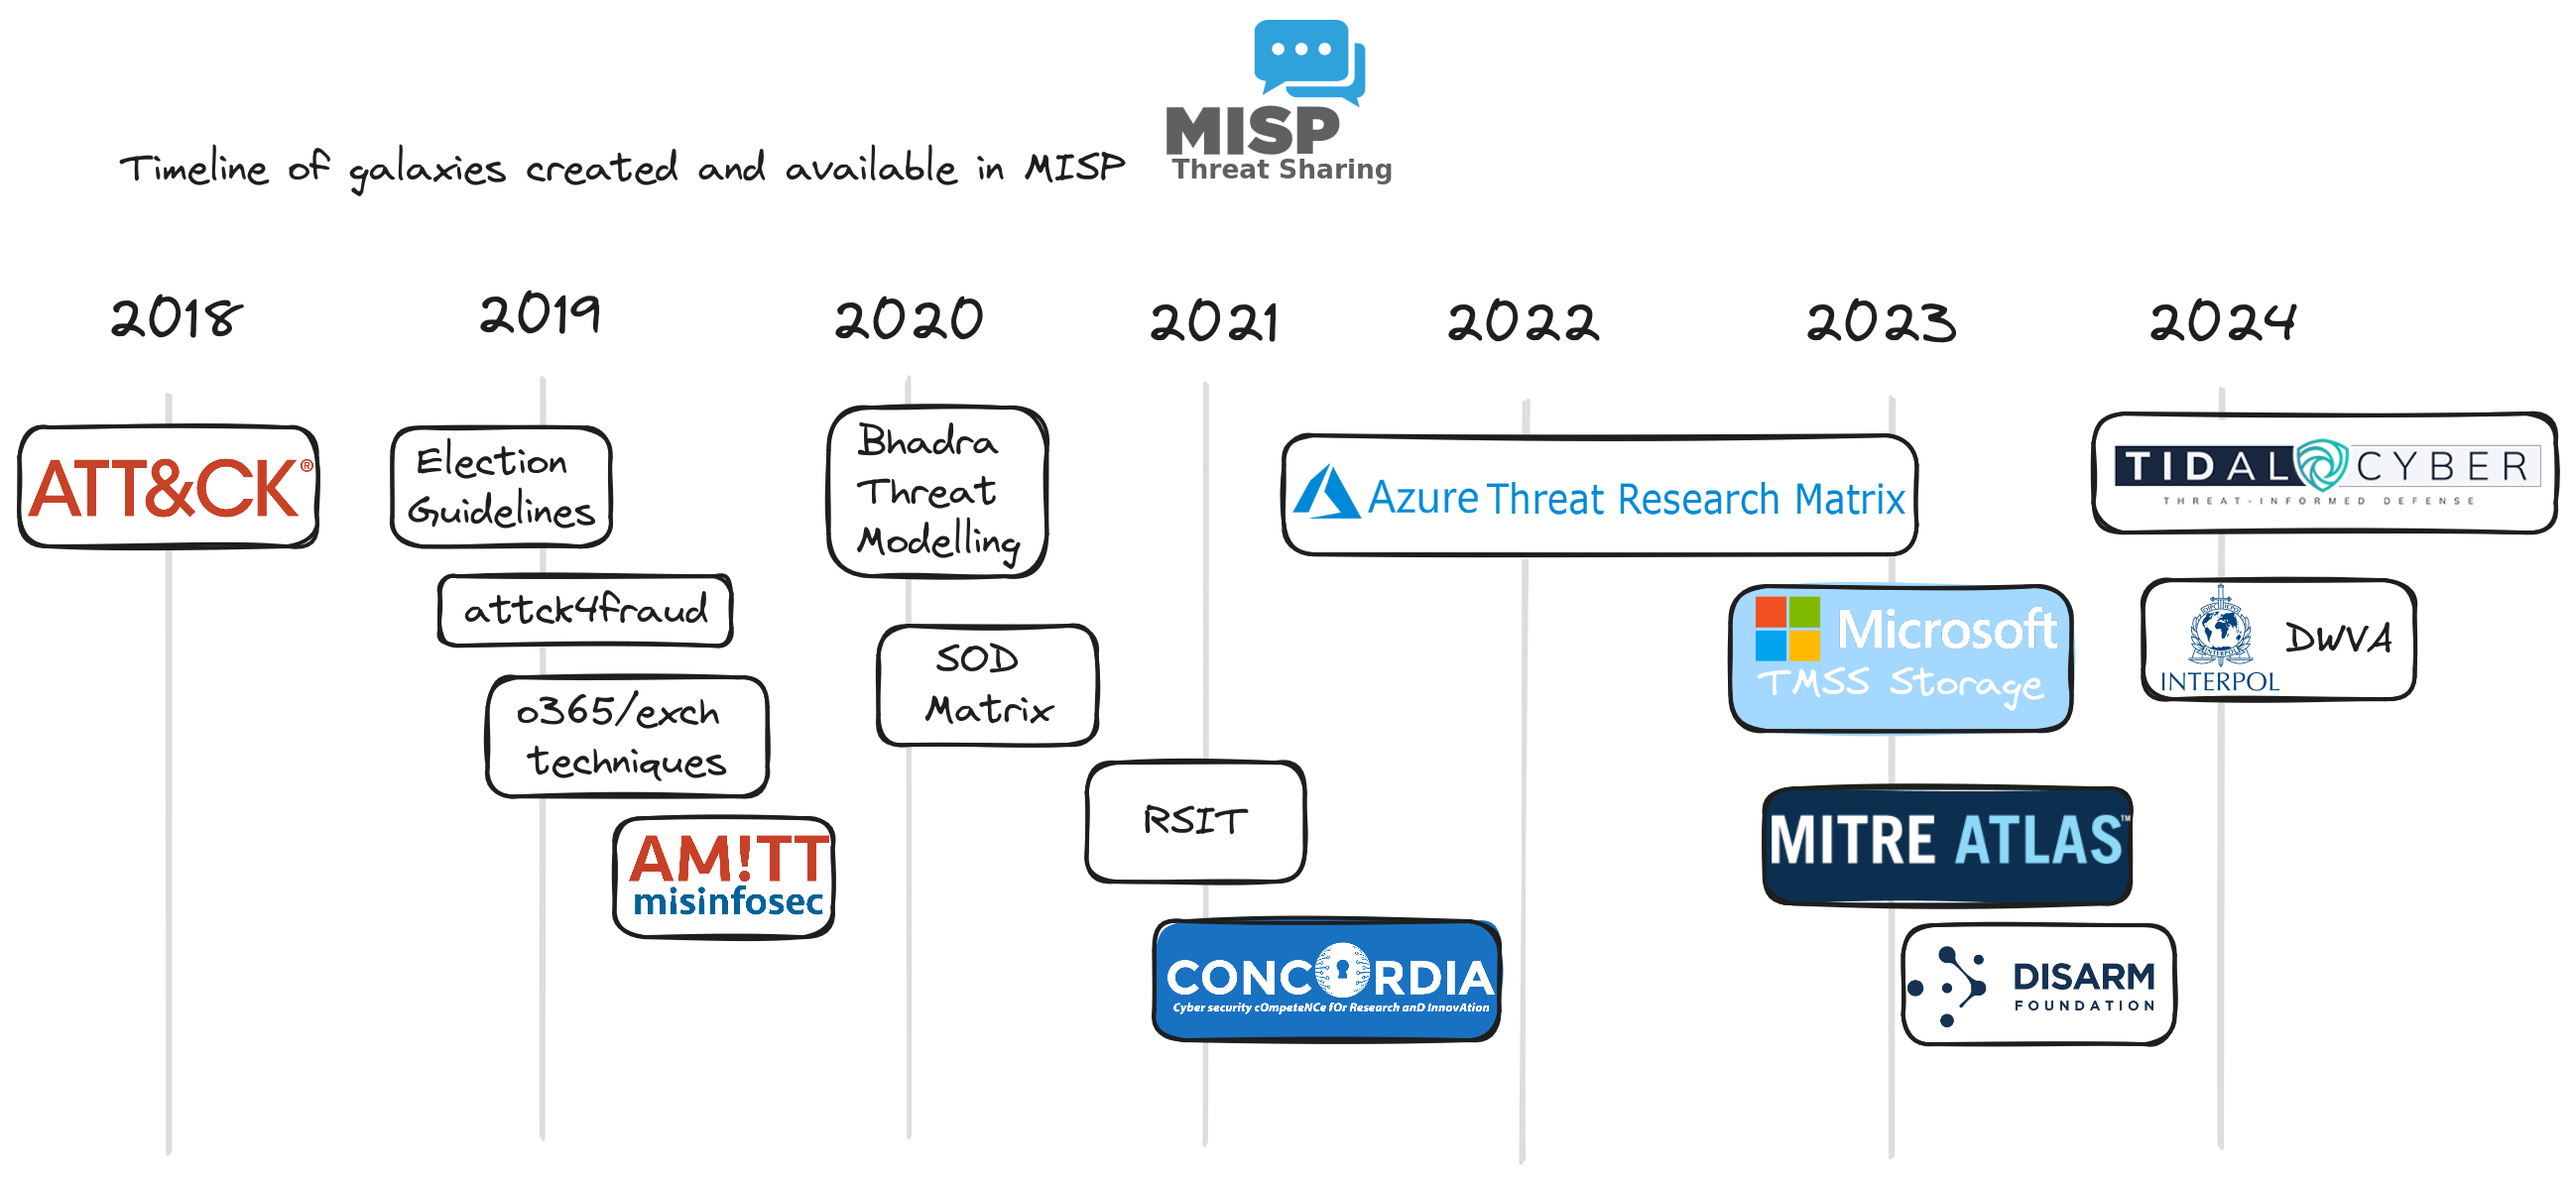
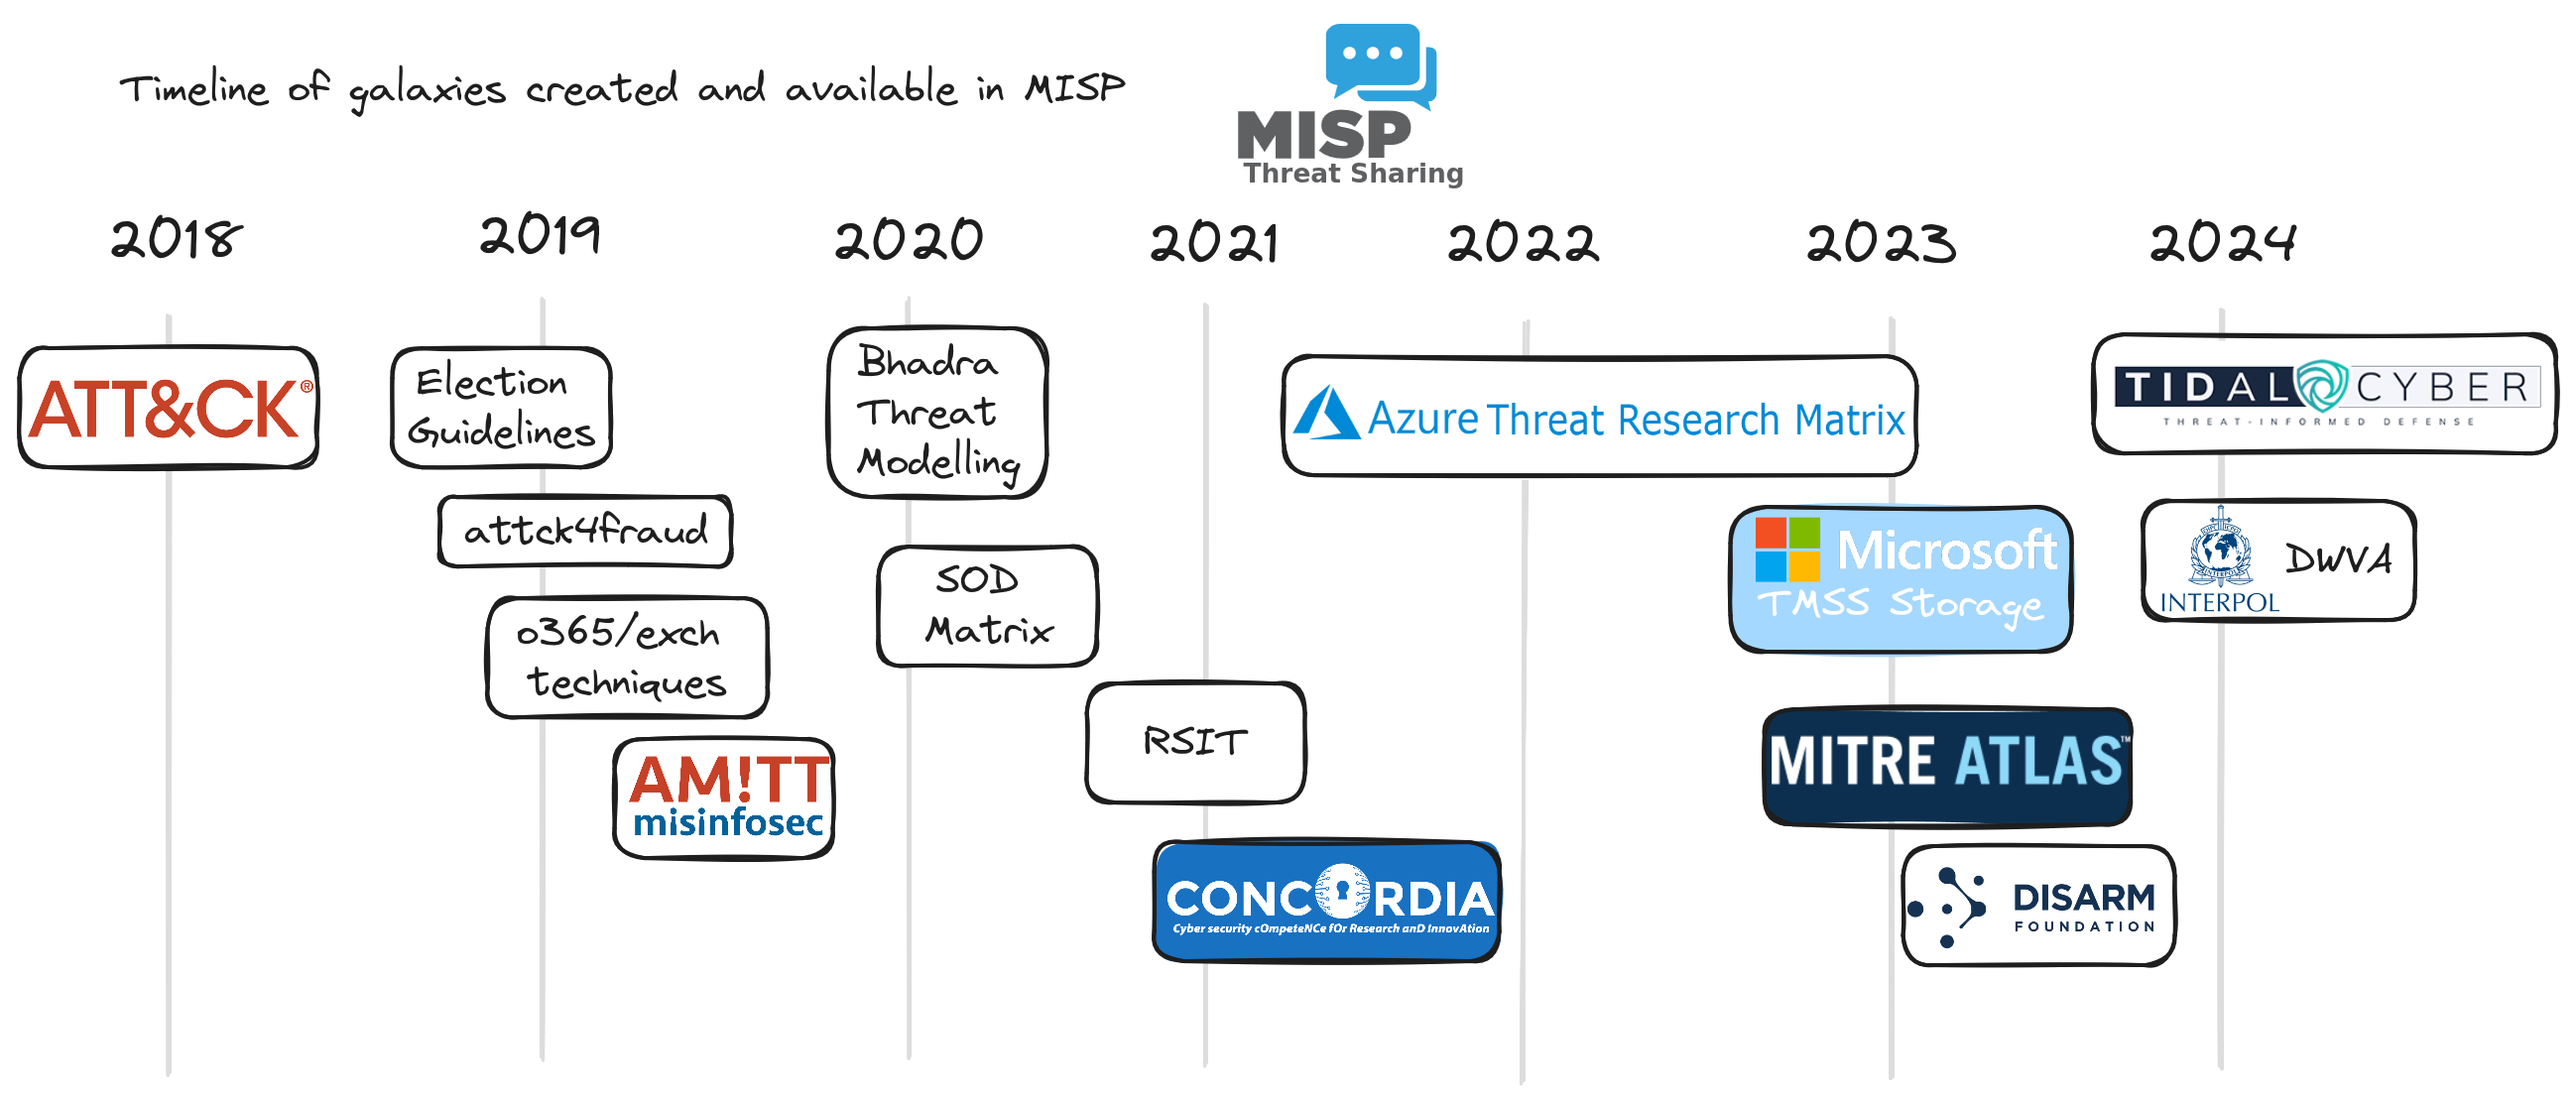
chg: [attack] updated slides

diff --git a/x.17-eu-attack-community/content.tex b/x.17-eu-attack-community/content.tex
@@ -31,7 +31,8 @@
    \begin{itemize}
        \item Seeing the success of the ATT\&CK framework in MISP gave rise to a host of matrix-based models:
        \begin{itemize}
-           \item Inflation? We don’t think so. There are {\bf different models} because there are many {\bf different use cases to be represented}.
+           \item Inflation? We don’t think so.
+           \item There are {\bf different models} because there are many {\bf different use cases to be represented}.
            \item We found this to be good as long as those models are maintained.
        \end{itemize}
    \end{itemize}
@@ -40,7 +41,7 @@
 \begin{frame}
 	\frametitle{MISP galaxies over time}
 	\begin{center}
-	\includegraphics[scale=0.13]{./screenshots/timeline.png}
+	\includegraphics[scale=0.16]{./screenshots/timeline.png}
 	\end{center}
 \end{frame}
 
@@ -77,8 +78,12 @@
                 \begin{itemize}
                     \item Interaction with the framework owner.
                 \end{itemize}
-            \item Create the conversion script.
+            \item Create the conversion script, or do by hand.
         \end{itemize}
+        \begin{center}
+            \includegraphics[scale=0.3]{./screenshots/uuid-extraction.png}
+            \includegraphics[scale=0.3]{./screenshots/uuid-generation.png}
+        \end{center}
 \end{frame}
 
 \begin{frame}
@@ -94,8 +99,8 @@
             \item Create specific tooling to help or partially automate the creation of relations.
         \end{itemize}
         \begin{center}
-        \includegraphics[scale=0.2]{./screenshots/rel-gen-example.png}
-        \includegraphics[scale=0.2]{./screenshots/rel-gen-help.png}
+        \includegraphics[scale=0.35]{./screenshots/rel-gen-example.png}
+        % \includegraphics[scale=0.3]{./screenshots/rel-technique-re-search.png}
         \end{center}
 \end{frame}
 
@@ -112,6 +117,9 @@
             \item Conversion script breaks.
             \item Keeping contributed relationships.
         \end{itemize}
+        \begin{center}
+            \includegraphics[scale=0.3]{./screenshots/new-uuids-everywhere.png}
+        \end{center}
 \end{frame}
 
 \begin{frame}
@@ -152,11 +160,11 @@
 \begin{frame}
         \frametitle{10 Golden Rules for Framework Creators (Community)}
         \begin{itemize}
-            \item 1. Publish and communicate.
-            \item 2. Update regularly.
-            \item 3. Encourage third-party contributions.
-            \item 4. Expand existing frameworks.
-            \item 5. Collaborate with other framework creators.
+            \item 6. Publish and communicate.
+            \item 7. Update regularly.
+            \item 8. Encourage third-party contributions.
+            \item 9. Expand existing frameworks.
+            \item 10. Collaborate with other framework creators.
         \end{itemize}
 \end{frame}
 
@@ -165,7 +173,7 @@
   \frametitle{Get in touch if you have any questions}
   \begin{itemize}
     \item MISP galaxy website \url{https://www.misp-galaxy.org/}
-    \item Contact MISPProject 
+    \item Contact MISPProject
     \begin{itemize}
       \item \url{https://github.com/MISP}
       \item \url{https://gitter.im/MISP/MISP}
